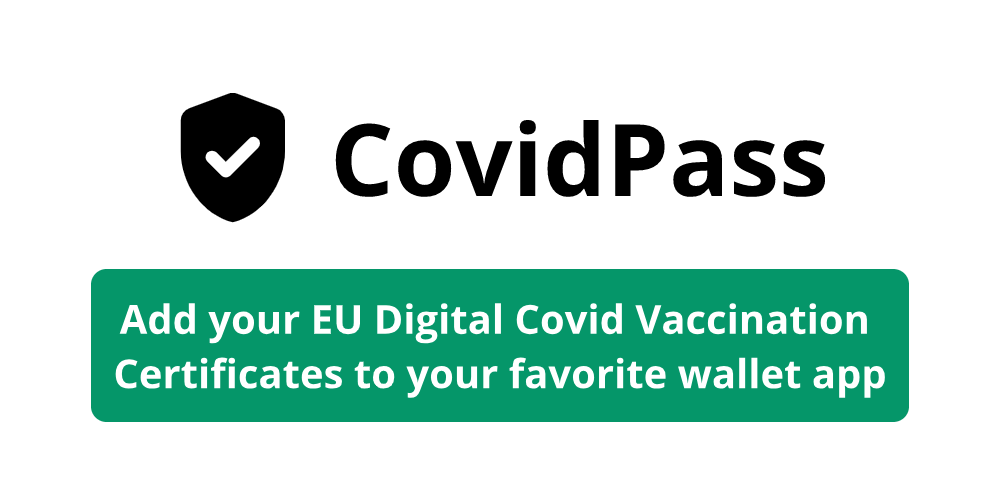
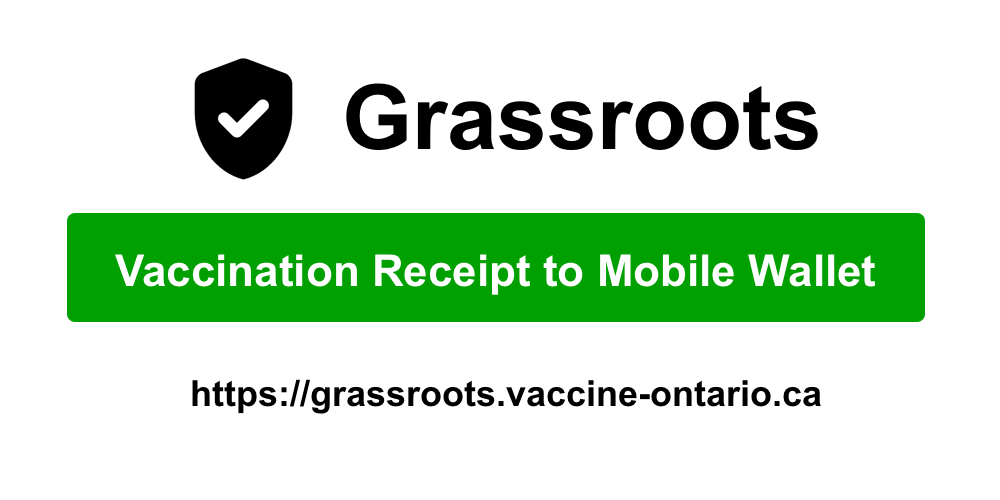
Version 1.2 release
ready for tweeting

diff --git a/pages/index.tsx b/pages/index.tsx
@@ -9,8 +9,8 @@ import Page from '../components/Page';
 function Index(): JSX.Element {
     const { t } = useTranslation(['common', 'index', 'errors']);
 
-    const title = 'Ontario Vaccination Record (PDF -> Apple Wallet / Android Wallet)';
-    const description = 'Add your Ontario vaccination receipt to your Apple / Android wallet.';
+    const title = 'Grassroots - Ontario vaccination receipt to your Apple wallet';
+    const description = 'Stores it on iPhone with a QR code for others to validate in a privacy respecting way.';
 
     return (
         <>
@@ -18,17 +18,17 @@ function Index(): JSX.Element {
                 title={title}
                 description={description}
                 openGraph={{
-                    url: 'https://receipt2wallet.vaccine-ontario.ca/',
+                    url: 'https://grassroots.vaccine-ontario.ca/',
                     title: title,
                     description: description,
-                    images: [
-                        {
-                            url: 'https://covidpass.marvinsextro.de/thumbnail.png',
-                            width: 1000,
-                            height: 500,
-                            alt: description,
-                        }
-                    ],
+                    // images: [
+                    //     {
+                    //         url: 'https://covidpass.marvinsextro.de/thumbnail.png',
+                    //         width: 1000,
+                    //         height: 500,
+                    //         alt: description,
+                    //     }
+                    // ],
                     site_name: title,
                 }}
                 twitter={{

diff --git a/components/Page.tsx b/components/Page.tsx
@@ -25,8 +25,10 @@ function Page(props: PageProps): JSX.Element {
 
                     <footer>
                         <nav className="nav flex pt-4 flex-row space-x-4 justify-center text-md font-bold flex-wrap">
-                            {/* <a href="https://ko-fi.com/marvinsxtr" className="hover:underline">{t('common:donate')}</a> */}
-                            <a href="https://github.com/billylo1/covidpass" className="hover:underline">{t('common:gitHub')}</a>
+                            <a href="https://www.youtube.com/watch?v=AIrG5Qbjptg" className="hover:underline">{t('index:demo')}</a>
+                            <a href="mailto:grassroots@vaccine-ontario.ca" className="hover:underline">{t('common:contact')}</a>
+                            <a href="https://vaccine-ontario.ca" className="hover:underline">{t('common:returnToMainSite')}</a>
+                            {/* <a href="https://github.com/billylo1/covidpass" className="hover:underline">{t('common:gitHub')}</a> */}
                             {/* <Link href="/privacy"><a className="hover:underline">{t('common:privacyPolicy')}</a></Link>
                             <Link href="/imprint"><a className="hover:underline">{t('common:imprint')}</a></Link> */}
                         </nav>

diff --git a/components/Form.tsx b/components/Form.tsx
@@ -247,6 +247,7 @@ function Form(): JSX.Element {
                         <div>
                             <ul className="list-none">
                                 <Check text={t('createdOnDevice')}/>
+                                <Check text={t('qrCode')}/>
                                 <Check text={t('openSourceTransparent')}/>
                                 {/* <Check text={t('hostedInEU')}/> */}
                             </ul>
